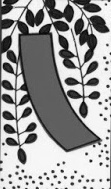
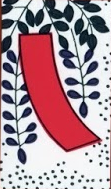
find_ribbon doesn't work for one red ribbon.

diff --git a/processing.py b/processing.py
@@ -6,93 +6,81 @@ from matplotlib import pyplot as plt
 import computing
 import argparse
 
-name = ''
+
+name2 = ''
 
 
-def make_decision(image, image_name):
-	my_decision = computing.DecisionStruct(name_of_file=image_name, month=5, pkt=2)
-
-	# CHECK DECISION:
-	if my_decision.name_of_file == None:
-		print ("DECISION", image_name, "\tNO DECISION")
-		return False
-	print("DECISION\t", my_decision.name_of_file, my_decision.month, my_decision.pkt)
-	for card in computing.facts_dictionary.items():
-		if card[0] == my_decision.name_of_file:		# card as list [key, [month, pkt]]
-			print("FACT\t\t", card[0], card[1][0], card[1][1])
-			if card[1][0] != my_decision.month:
-				print("\t\tWrong month.")
-			if card[1][1] != my_decision.pkt:
-				print("\t\tWrong points.")
-			break
-	return my_decision
-
-
-def picture_processing(file_name):
+def picture_processing(file_path):
 	# READ IMAGE:
-	filename = os.path.join(os.getcwd(), file_name)
+	filename = os.path.join(os.getcwd(), file_path)
 	original_image = cv2.imread(filename, cv2.IMREAD_COLOR)
-	#image = cv2.imread(filename, cv2.IMREAD_GRAYSCALE)	# cv2.IMREAD_GRAYSCALE / IMREAD_COLOR
 	image = cv2.cvtColor(original_image, cv2.COLOR_BGR2GRAY)
 
-	#-------------------------------------------------
 	# PROCESSING:
-	res = np.hstack ((image, image))
-
-	# blur: Bilateral filtering has the nice property of removing noise in
-	# 		the image while still preserving the actual edges.
-	#		it works similarly to beauty-filter
-	blurred = cv2.bilateralFilter(image, 11, 17, 17)
-	#blurred = cv2.GaussianBlur(image, (3,3), 0)
-	res = np.hstack ((image, blurred))
-
-	# clahe:
-	# clahe = cv2.createCLAHE(clipLimit=2.0, tileGridSize=(8,8))
-	# cl1 = clahe.apply(image)
-	# res = np.hstack((image,cl1))
-
-	# equalization:
-	# equ = cv2.equalizeHist(image)
-	# res = np.hstack((image, equ))
-
-	# canny: smallest <- edge linking, largest <- initial segments of strong edges
-	# edges = cv2.Canny(image, threshold1=200, threshold2=600, apertureSize=3)
-	edges = computing.auto_canny(blurred)
-
-	# contours:
-	(_, contours, _) = cv2.findContours(edges.copy(), cv2.RETR_TREE, cv2.CHAIN_APPROX_SIMPLE)
-	contours = sorted(contours, key=cv2.contourArea, reverse=True)[:6]
-	res = np.hstack ((original_image, cv2.drawContours(original_image.copy(), contours, -1, color=(0,255,0), thickness=3)))
-	# http://www.pyimagesearch.com/2014/04/21/building-pokedex-python-finding-game-boy-screen-step-4-6/
-
-	#hull = cv2.convexHull(edges)	# to z ręką http://docs.opencv.org/3.1.0/dd/d49/tutorial_py_contour_features.html
-
-
-	#--------------------------------------------------
-	# SAVE FILES:
-	output_path = os.path.join (os.getcwd(), "output/")
-	if not os.path.exists(output_path):
-		os.mkdir(output_path)
-	new_path = os.path.join(output_path, os.path.basename(file_name) + name)
-	cv2.imwrite(new_path, res)
-	new_path = os.path.join (output_path, os.path.basename (file_name) + "e.jpg" + name)
-	cv2.imwrite (new_path, edges)
+	# find ribbon:
+	(colours_array, is_ribbon) = find_ribbon(original_image, os.path.basename(file_path))
 
 	# DECISION:
-	decision = make_decision(edges, os.path.basename(filename))
+	# TODO fill structure
+	summary = computing.DecisionStruct(os.path.basename(file_path), colours_array, isRibbon=is_ribbon)
+	make_decision(summary)
+
+
+def find_ribbon(image, file_name):
+	results_array, masks_array = computing.find_colour_count(image, file_name)
+	ribbon_colour = None
+	for n, mask in enumerate(masks_array[:2]):
+		# TODO one more ribbon
+		# red mask
+		height, width = image.shape[:2]
+		red_picture = np.zeros(image.shape, np.uint8)
+		red_picture[:] = (0, 0, 255)
+		red_mask = cv2.bitwise_and (red_picture, red_picture, mask=mask)
+
+		# edges
+		edges = cv2.Canny (red_mask, threshold1=100, threshold2=600, apertureSize=5)
+
+		# contours of ribbon
+		(_, cnts, _) = cv2.findContours(edges.copy(), cv2.RETR_TREE, cv2.CHAIN_APPROX_SIMPLE)
+		cnts = sorted(cnts, key=cv2.contourArea, reverse=True)[:10]
+		ribbon = None
+		for c in cnts:
+			if cv2.contourArea(c) > 3000 and cv2.arcLength(c, closed=True) > 200:
+				if tuple(c[c[:,:,1].argmin()][0])[1] > (height/3) or \
+						tuple(c[c[:,:,1].argmax()][0])[1] < (height*2/3):
+					continue
+				ribbon = c
+				ribbon_colour = n	# n <- number of colour
+				print(file_name, "ribbon, colour: ", str(n))
+				break;
+
+		# SAVE:
+		cv2.drawContours (red_mask, [ribbon], -1, (0, 255, 0), 3)
+		computing.save_file (file_name, "ribbons_contours/" + str (n) + '/', red_mask)
+
+	return results_array, ribbon_colour
+
+
+def make_decision(result_of_processing):
+	# TODO compare results and make a decision
+	# COMPARE:
+	a = 3
+	# print(result_of_processing.name_of_file, "No decision")
 
 
 def read_pictures ():
-	files_list = glob.glob ("pictures/*.jpg")
+	files_list = sorted(glob.glob (computing.proces_input + "*.jpg"))
 	for n, file in enumerate(files_list):
-		if n == 5:
-			break
+		# if n == 20:
+		# 	break
 		if os.path.basename(file)[0].isdigit():
 			picture_processing(file)
 
 
 if __name__ == '__main__':
-	computing.read_information('pictures/')
+	computing.read_information(computing.info_input)
+	computing.compute_parameters()
 	read_pictures()
+
 
 # http://docs.opencv.org/3.1.0/dd/d49/tutorial_py_contour_features.html (7 dział - prostokąt)

diff --git a/computing.py b/computing.py
@@ -6,14 +6,25 @@ import numpy as np
 from collections import namedtuple
 
 
-# { name_of_file : [month, pkt] }
+name = ''
+info_input = 'pictures/'
+proces_input = 'pictures/'
+
+# { name_of_file : [month, pkt, [colours]}
 facts_dictionary = {}
-DecisionStruct = namedtuple("DesisionStruct", "name_of_file month pkt")
-DecisionStruct.__new__.__defaults__ = (None, 0, 0)
+# TODO make class
+DecisionStruct = namedtuple("DecisionStruct", "name_of_file colours_amount_array isRibbon")
+DecisionStruct.__new__.__defaults__ = (None, [], False)
+
+colour_boundaries = [	# ([B,G,R], [B,G,R])
+	([4, 9, 86], [80, 88, 220]),		# RED
+	([80, 31, 4], [220, 100, 60]),		# BLUE
+	([230, 230, 230], [255, 255, 255])	# WHITE
+]
 
 
 def read_information(folder):
-	files_list = glob.glob (folder + "*.jpg")
+	files_list = sorted(glob.glob (folder + "*.jpg"))
 	for file in files_list:
 		file = os.path.basename(file)
 		if file[0].isdigit():
@@ -21,6 +32,51 @@ def read_information(folder):
 			file_atribiutes[0] = int(float(file_atribiutes[0]))
 			file_atribiutes[1] = int(float(re.findall(r'\d+', file_atribiutes[1])[0]))
 			facts_dictionary[file] = file_atribiutes
+
+
+def find_colour_count(image, file_name):
+	colourful_count = []
+	masks = []
+	for n, (lower, upper) in enumerate (colour_boundaries):
+		lower = np.array (lower, dtype="uint8")
+		upper = np.array (upper, dtype="uint8")
+
+		mask = cv2.inRange (image, lower, upper)
+		kernel = np.ones((3,3), np.uint8)
+		mask2 = cv2.morphologyEx(mask, cv2.MORPH_OPEN, kernel)
+		mask = mask2
+
+		colourful_pixels_count = cv2.countNonZero (mask)
+		colourful_count.append(colourful_pixels_count)
+		masks.append(mask)
+		# print(file_name, n, colourful_pixels_count)
+
+		# SAVE MASK:
+		# image_with_mask = cv2.bitwise_and (image, image, mask=mask)
+		# save_file(file_name + name, "ribbons_masks/"+str(n)+"/", image_with_mask)
+
+	return colourful_count, masks
+
+
+def compute_parameters():
+	for file_key in sorted(facts_dictionary.keys()):
+		# READ FILE:
+		filename = os.path.join (os.getcwd (), info_input + file_key)
+		original_image = cv2.imread (filename, cv2.IMREAD_COLOR)
+		image = cv2.cvtColor (original_image, cv2.COLOR_BGR2GRAY)
+
+		# COMPUTE PARAMETERS:
+		# colour count
+		(array_of_colour_values, _) = find_colour_count(original_image, file_key)
+		facts_dictionary[file_key].append(array_of_colour_values)
+
+
+def save_file (file_name, output_folder, result):
+	output_path = os.path.join (os.getcwd (), output_folder)
+	if not os.path.exists (output_path):
+		os.makedirs(output_path)
+	new_path = os.path.join (output_path, file_name + name)
+	cv2.imwrite (new_path, result)
 
 
 def auto_canny (image, sigma=0.33):
